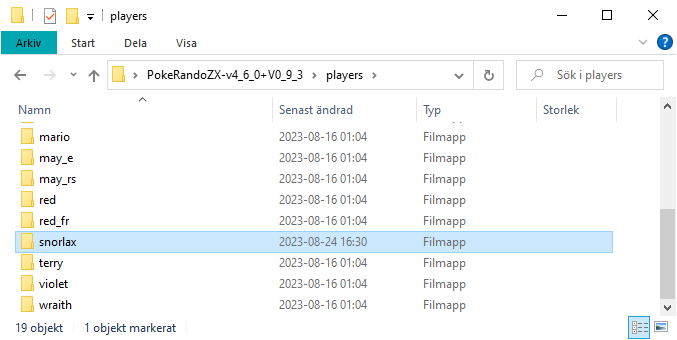
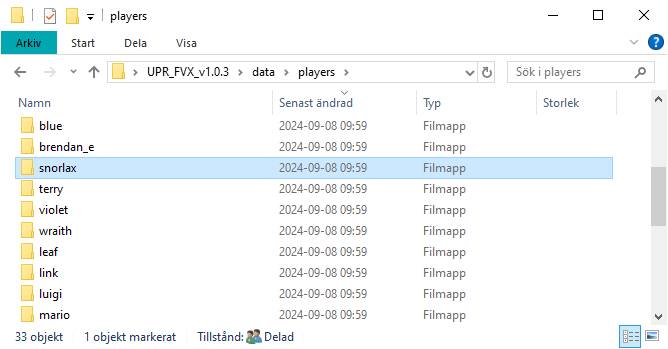
continue CPG wikipage, folder screenshots

diff --git a/website/_wikipages/cpgs.md b/website/_wikipages/cpgs.md
@@ -18,12 +18,15 @@ Below is a general guide for how CPGs work, followed by sections for specific ga
 ## In all games
 
 ### File structure
-To add a custom player graphics, create a new folder within `data/players`. This folder should contain your image files (and palette files, if you need those), as well as a text file called `info.ini`.
+To add a custom player graphics, create a new folder within `data/players/`. This folder should contain your image files (and palette files, if you need those), as well as a text file called `info.ini`.
 
-[TODO: remake these folder images]
-[the players/ folder](nav1.png)
-[inside the players/ folder](nav2.png)
-[inside a subfolder of players/, showing image files and info.ini](nav3.png)
+![the randomizer's root folder, with data/ highlighted](/assets/images/wikipages/cpg/nav1.png)
+
+![the data/ folder, with players/ highlighted](/assets/images/wikipages/cpg/nav2.png)
+
+![the players/ folder, with snorlax/ highlighted](/assets/images/wikipages/cpg/nav3.png)
+
+![the snorlax/ folder, showing image files and info.ini](/assets/images/wikipages/cpg/nav4.png)
 
 The UPR accepts images in many formats, but ".png" and ".bmp" are strongly recommended. Don't use ".jpg" files. If you know what "indexing" images is, you generally do not need to worry about that. Unindexed images work just fine, as long as they don't have too many colors. This means you can use pretty much any image editing tool to create the images, like MS Paint or [Paint.net](https://www.getpaint.net/) (the exception where indexing is needed, is Gen 3 overworld sprites).
 
